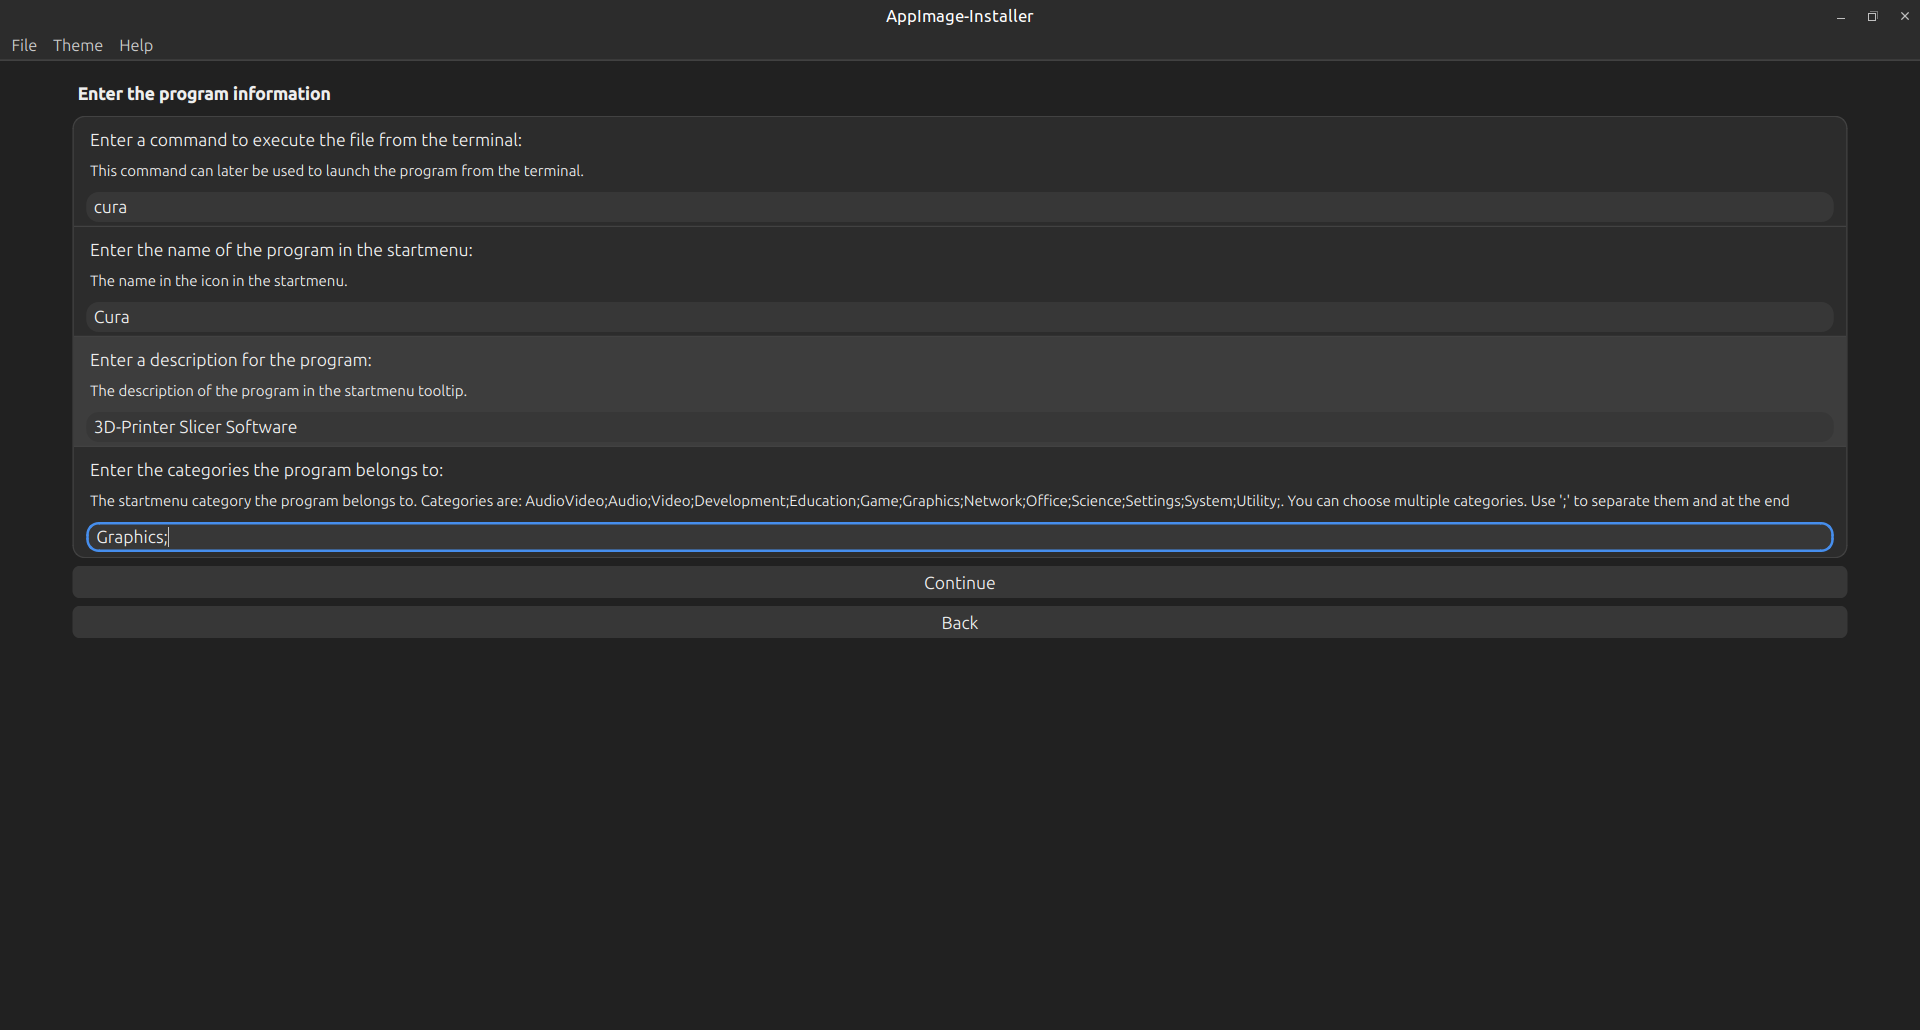
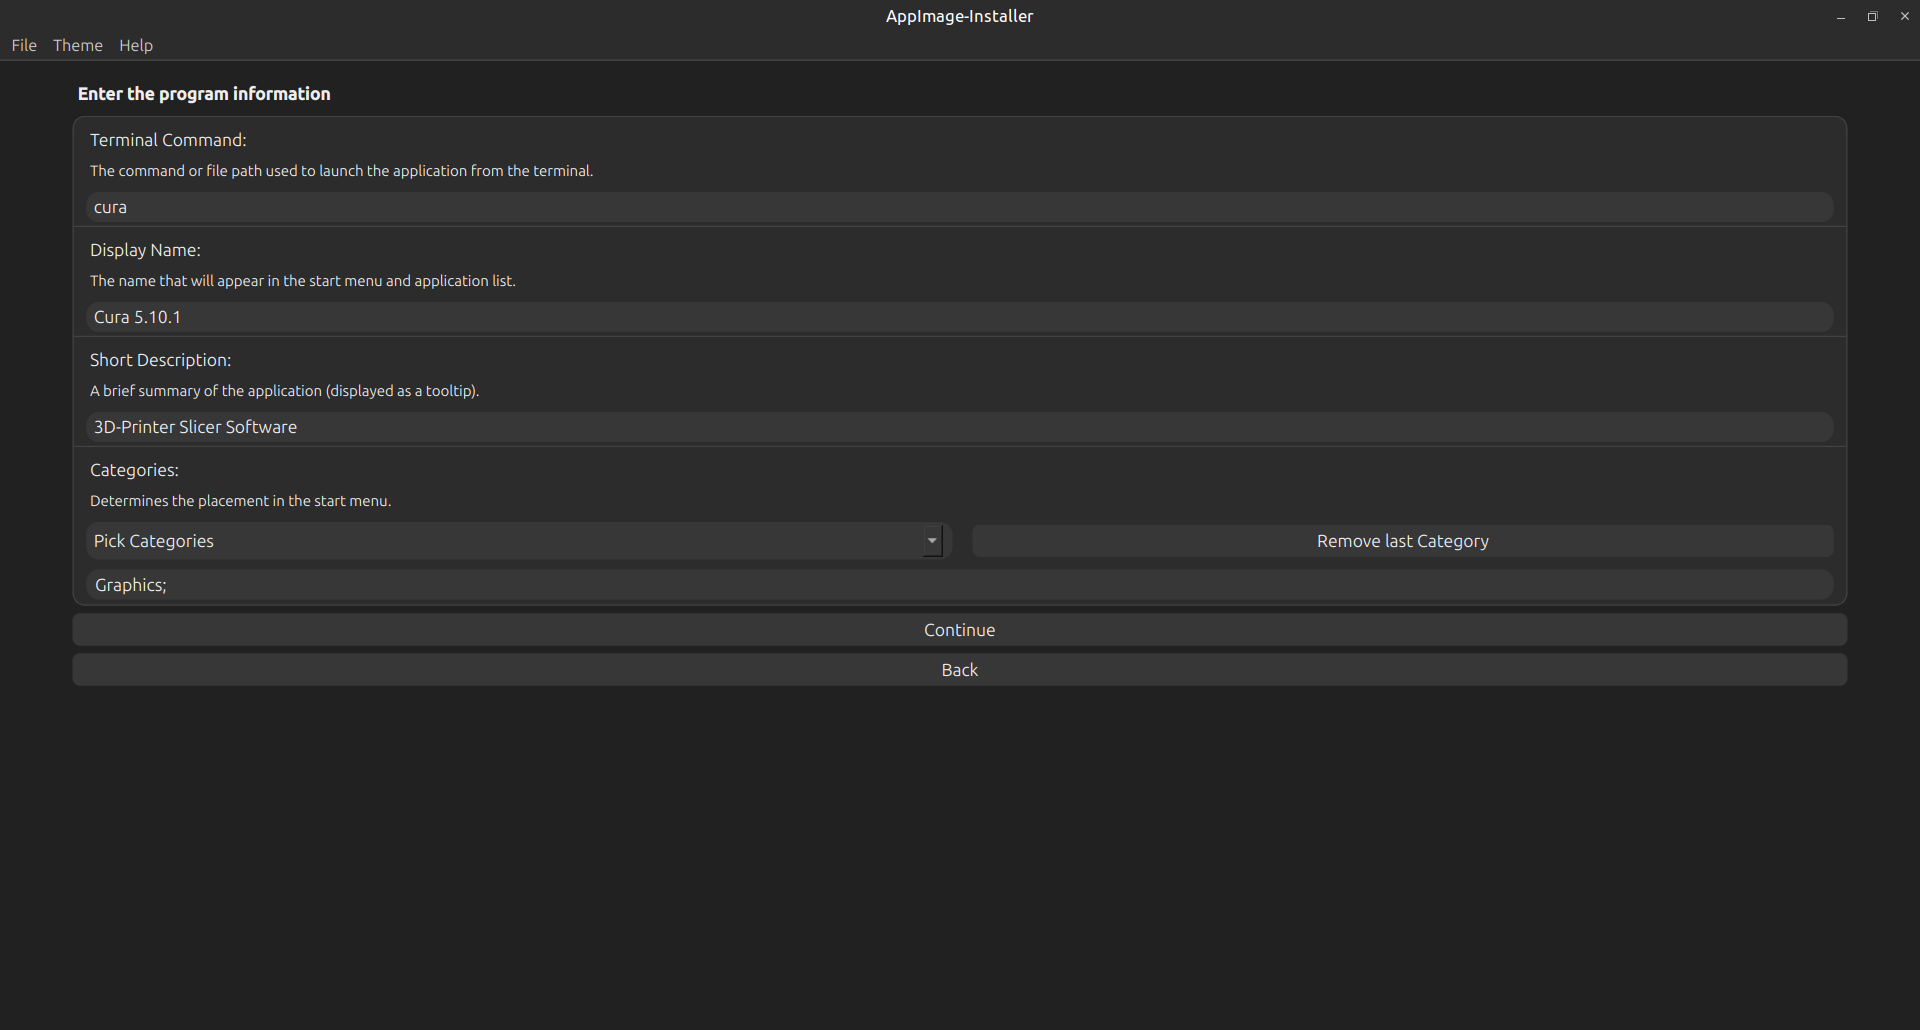
Small visual improvements and better instructions on what to do

diff --git a/Pyside.py b/Pyside.py
@@ -203,16 +203,16 @@ class MainWindow(QMainWindow):
         containerLayout.setSpacing(0)
 
 # All the things the user has to enter
-        self.programInfo = ["Enter a command to execute the file from the terminal: ",
-                            "Enter the name of the program in the startmenu: ",
-                            "Enter a description for the program: ",
-                            "Pick the categories the program belongs to: "]
+        self.programInfo = ["Terminal Command:",
+                            "Display Name:",
+                            "Short Description:",
+                            "Categories:"]
         
 # More information on what to enter for the user
-        programInfoText = ["This command can later be used to launch the program from the terminal.",
-                           "The name in the icon in the startmenu.",
-                           "The description of the program in the startmenu tooltip.",
-                           "The startmenu category the program belongs to. Categories are: AudioVideo;Audio;Video;Development;Education;Game;Graphics;Network;Office;Science;Settings;System;Utility;. You can choose multiple categories."]
+        programInfoText = ["The command or file path used to launch the application from the terminal.",
+                           "The name that will appear in the start menu and application list.",
+                           "A brief summary of the application (displayed as a tooltip).",
+                           "Determines the placement in the start menu."]
         
         self.programInfoList = []
         
@@ -248,6 +248,9 @@ class MainWindow(QMainWindow):
             if index == 3:
                 innerTile = QWidget()
                 innerTileLayout = QHBoxLayout(innerTile)
+
+                innerTileLayout.setContentsMargins(0, 0, 0, 0)
+                innerTileLayout.setSpacing(0)
 
                 self.allCategories = ""
                 rmvCategory = QPushButton("Remove last Category")
